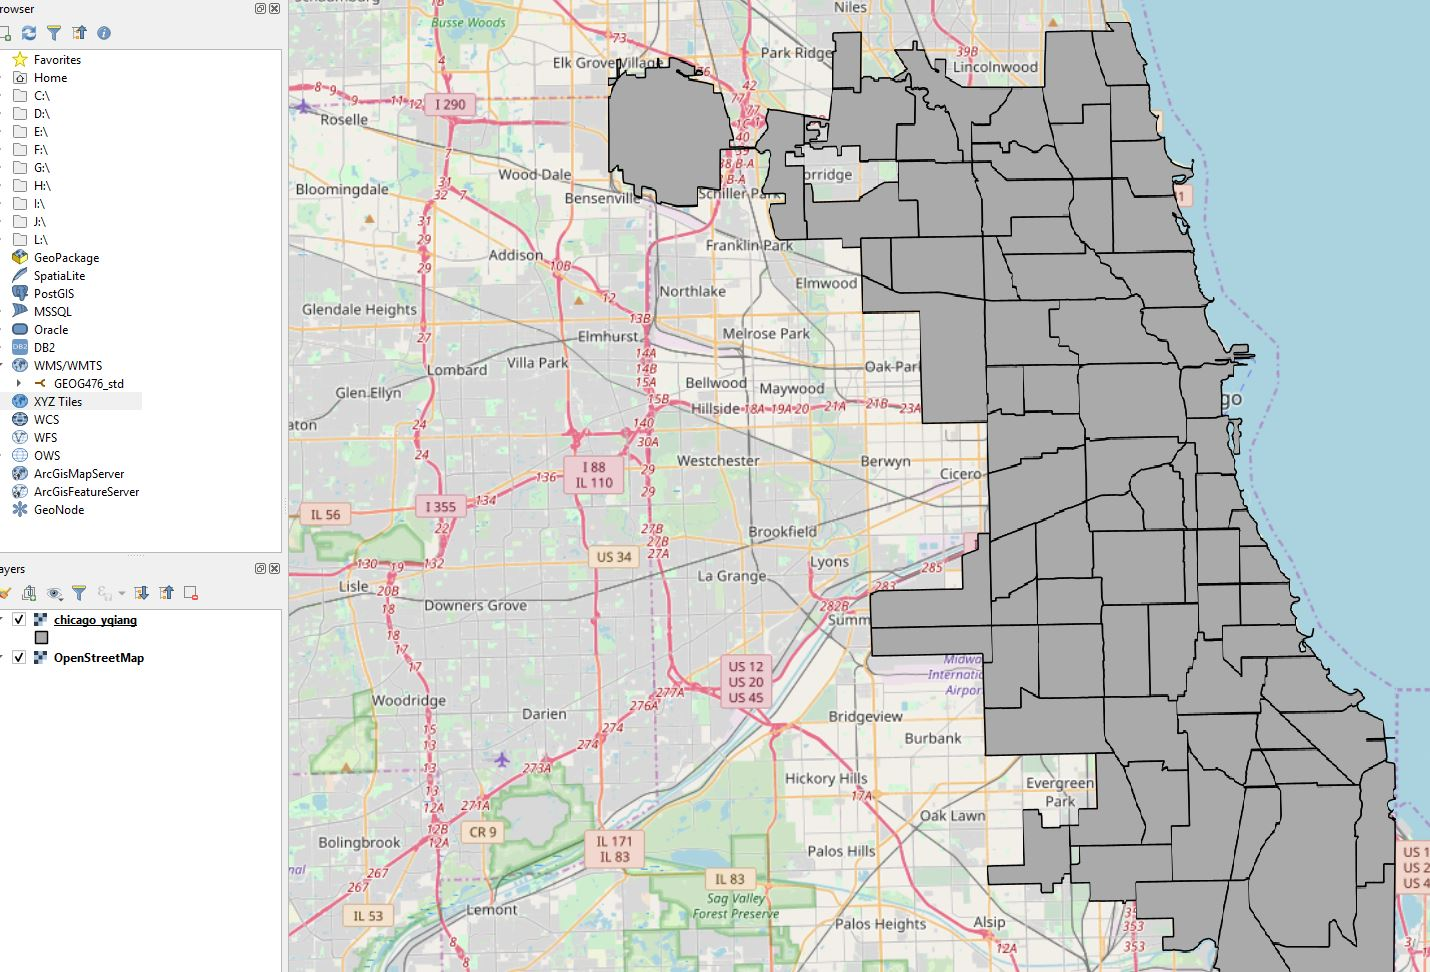
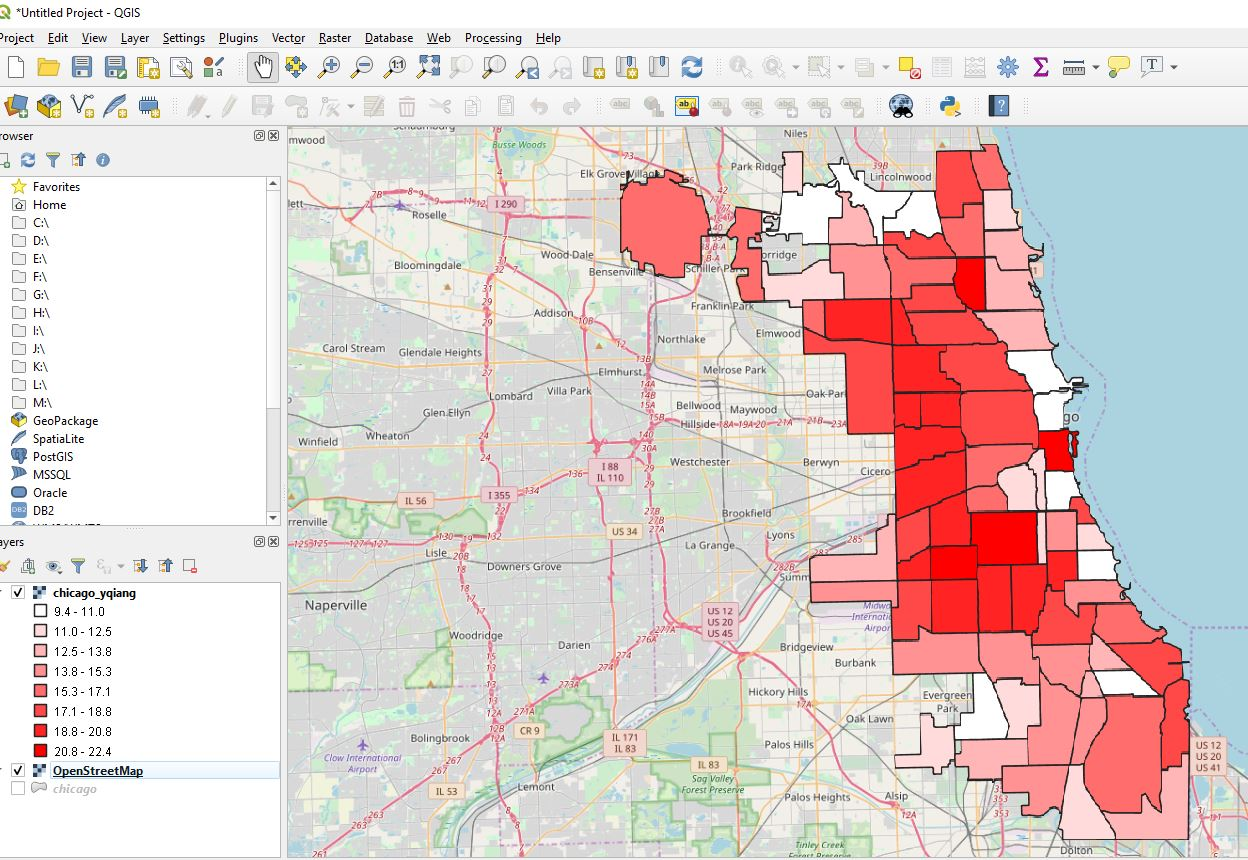
11/8 before class

diff --git a/lecture/lec11_web_map_service.md b/lecture/lec11_web_map_service.md
@@ -1,0 +1,327 @@
+
+# Web Map Service
+
+##### Instructor: Yi Qiang <br/>Email: yi.qiang@hawaii.edu <br/>Nov. 8
+
+th, 2019
+---
+This lesson will introduce web map services (WMS) and how to set up web map services in GeoServer.
+
+
+## Learning objectives:
+- Introduction to web map server
+- Basics of GeoServer, a popular open-source WMS platform
+- Develop interactive controls to switch map layers
+- Publish a web map layer using GeoServer
+- Linking  GeoServer layers in a Leaflet map
+
+
+Download the [files for this lab](https://drive.google.com/drive/folders/1TBrLFOz-h_I1lHwbg6QAc88uBHH1iZDQ?usp=sharing) and save them in a known location (i.e., a directory in your Documents). The files include a web map template (index.html) and and a shapefile (chicago.shp).
+
+Before proceeding, verify you have correctly set up your development environment with the necessary components. Refer to [Lec 7: getting started with web mapping](../lec7_start_web_mapping.md) for help.
+
+## 1. Basics of Web Map Services
+There are various ways to get geospatial data to show up in someone's web browser:
+
+#### Rendering entire dataset
+One way is for the server to send a bunch of text-based geographic data to clients' browsers to draw. This is what you have done in previous lessons in which you loaded GeoJson data stored in your local server to the web maps. This simple approach is easy to implement but has limited ability to render large datasets. All the datasets we used are relatively small in size. The U.S. state dataset is the largest, which only contains 51 polygons (88KB). The entire GeoJson dataset needs to be transmitted to the client's browser to be displayed in the web map. In some web applications, the datasets may include hundreds or thousands of polygons at a finer resolution, which leads to larger data sizes. Transmitting large datasets from server to client browser can lead to slow response of the browser and thus negatively affect user experience. This issue can be worse when the web map has many layers.
+
+<img src="images/fig11-1.jpg" width=600>
+
+The awkward state boundaries in the GeoJson data are mainly for reducing data size.
+
+#### Web Map Service (WMS)
+The OpenGIS® **Web Map Service (WMS)** Interface Standard provides a simple HTTP interface for requesting geo-registered map images from one or more distributed geospatial databases. The WMS receives a request from user detailing the bounding box (or extent) of the map, the layers to include, resolution, the projection to use, and other parameters. It returns a rasterized map image in a common format such as JPG, GIF, or PNG. This technique reduces the data size to be transmitted from server to client and thus increase the response speed of web application. The WMS also supports the ability to specify whether the returned images should be transparent so that layers from multiple servers can be combined or not.
+
+> Web Map Tile Service (WMTS) specification (a subtype of WMS) is an international standard for serving digital maps over the web using cached image tiles. When you create a cached map or image service using a web map server, the service and its tiles are automatically accessible using the WMTS specification. Most raster images (such as leaflet basemaps, Google Map images) are hosted as WMTS.
+
+
+<img src="images/anim29.gif" width=1200>
+
+The basemaps in the [leaflet basemap gallery](https://leaflet-extras.github.io/leaflet-providers/preview/) are essentially WMS.
+
+<img src="images/fig11-2.jpg" width=900>
+
+
+### Software for hosting WMS
+There are many software options for hosting Dynamic WMS in a web server.
+- [GeoServer](http://geoserver.org/) - is an open source software server written in Java that allows users to share and edit geospatial data.
+- [ArcGIS for server](https://enterprise.arcgis.com/en/server/latest/get-started/windows/what-is-arcgis-for-server-.htm) - A back-end server software component of ArcGIS Enterprise (require license purchase).
+- [Map Server](http://mapserver.org/) - A Open-source web map server software. Sometimes called the "Minnesota Map Server," this was developed at the University of Minnesota in the 1990s.
+- [QGIS Server](https://docs.qgis.org/2.14/en/docs/user_manual/working_with_ogc/ogc_server_support.html) - An extension for QGIS that allows you to publish your QGIS map directly through WMS.
+- WMS hosting services. Some web services (e.g. [ArcGIS online](https://www.arcgis.com/index.html) and [MapBox](https://www.mapbox.com/)) allow users to upload geospatial data and publish the data as WMS layers. The payment for such services are monthly billing or a pay-as-you go mode.
+
+We will use [GeoServer](http://geoserver.org/), which is an open-source solution, for this lesson.
+
+## 2. Basics of GeoServer
+GeoServer is an open-source software for hosting WMS. Designed for interoperability, it publishes data from any major spatial data source using open standards. Being a community-driven project, GeoServer is developed, tested, and supported by a diverse group of individuals and organizations from around the world.
+
+> GeoServer implements standard open web protocols established by the Open Geospatial Consortium (OGC), a standards organization. GeoServer is the reference implementation of the OGC Web Feature Service (WFS) and Web Coverage Service (WCS) standards, and contains as well a high performance certified compliant Web Map Service (WMS). It is through these protocols that GeoServer can serve data and maps in an efficient and powerful way.
+
+#### Supported Data Format
+GeoServer can read from many different data formats, from files on the local disk to external databases. Through the medium of web protocols, GeoServer acts as an abstraction layer, allowing a standard method of serving geospatial data regardless of the source data type.
+
+The following is a list of the most common data formats supported by GeoServer. This list is by no means exhaustive.
+- Vector
+  - Shapefile
+  - GeoPackage - QGIS layer with styling
+  - PostGIS - spatial database
+  - Web Feature Server (NG) - Provides access to the Features published a Web Feature Service
+- Raster
+  - ArcGrid - ARC/INFO ASCII GRID Coverage Format
+  - GeoPackage (mosaic) - GeoPackage mosaic plugin
+  - GeoTIFF - Tagged Image File Format with Geographic information
+  - ImageMosaic - Image mosaicking plugin
+  - WorldImage - A raster file accompanied by a spatial data file
+
+## 3. Data Management in GeoServer
+In GeoServer, data are stored in different levels of containers in a hierarchical structure.
+### [Workspace](https://docs.geoserver.org/latest/en/user/data/webadmin/workspaces.html)
+A workspace (sometimes referred to as a namespace) is the name for a notional container for grouping similar data together. It is designed to be a separate, isolated space relating to a certain project. Using workspaces, it is possible to use layers with identical names without conflicts.
+
+**Stores** and **layers** must be contained in a specific workspace. **Styles** may optionally be associated with a workspace, but can also be global.
+
+
+### [Store](https://docs.geoserver.org/latest/en/user/data/webadmin/stores.html)
+A **store** is the name for a container of geographic data. A store can contain many layers, such as the case of a database that contains many tables. A store can also have a single layer, such as in the case of a shapefile or GeoTIFF. A store must contain at least one layer.
+
+GeoServer saves the connection parameters to each store (the path to the shapefile, credentials to connect to the database). Each store must also be associated with one (and only one) workspace. A store can be considered as a sub-folder of the workspace it is associated with.
+
+A store is sometimes referred to as a “datastore” in the context of vector data, or “coverage store” in the context of raster (coverage) data.
+
+### [Layer](https://docs.geoserver.org/latest/en/user/data/webadmin/layers.html)
+The term “layer” refers to a raster or vector dataset that represents a collection of geographic features. Vector layers are analogous to “featureTypes” and raster layers are analogous to “coverages”. All layers have a source of data, known as a Store. The layer is associated with the Workspace in which the Store is defined.
+
+### [Layer Groups](https://docs.geoserver.org/latest/en/user/data/webadmin/layergroups.html)
+A layer group is a container in which layers and other layer groups can be organized in a hierarchical structure. A layer group can be referred to by a single name in WMS requests. This allows simpler requests, as one layer can be specified instead of multiple individual layers. A layer group also provides a consistent, fixed ordering of the layers it contains, and can specify alternate (non-default) styles for layers.
+
+You can add layers in different stores and workspaces in a layer group.
+
+The following graphic shows the various relationships between workspaces, stores, layers, and layer groups.
+
+<img src="images/fig51.png" width="500">
+
+### [Style](https://docs.geoserver.org/stable/en/user/styling/webadmin/index.html)
+A style is a visualization specification for rendering geographic data. A style can contain rules for color, shape, and size, along with logic for styling certain features or points in certain ways based on attributes or scale level. Every layer must be associated with at least one style. The default style will be used if no style is specified. In GeoServer, the style information is stored in SLD files, which can be associated (applied) to the layers.
+
+## 3. Publishing Layers in GeoServer
+
+### GeoServer Installation and Configuration
+GeoServer is open-source software, which you can freely download and install in your own computer. You may refer to [the GeoServer tutorial](https://docs.geoserver.org/stable/en/user/installation/win_installer.html) for the installation and configuration. However, since your computer is not a web server (which needs a static IP and domain name), the WMS deployed in your computer is not accessible from the internet (only accessible from http://localhost). In this lesson, you will learn to publish geospatial data in GeoServer WMS which is set up in a web server (accessible from the internet).
+
+### Step 1: Administration Interface
+
+Please go to http://spatial.manoa.hawaii.edu:8080/geoserver/ in your browser. You'll see the Administration interface of GeoServer.
+
+Please log in to your account using the username and password assigned in class.
+<img src="images/fig52.jpg" width="800">
+
+When logged in successfully, you can see a number of items in the **Data** panel on the left. These are where you create, edit and manage different data containers in the server.
+<img src="images/fig53.jpg" width="800">
+
+First, go to **Layer Preview**. You can see a list of published layers in the server.  These published layers are accessible and can be used in web maps hosted in any servers.
+
+Click **Open Layers** to preview the layer of 'USA Population'.
+<img src="images/fig54.jpg" width="800">
+
+
+A map view pops up and shows the boundaries of the states. You can click on a state to view its attributes.
+
+<img src="images/fig55.jpg" width="700">
+
+### Step 2: Publish a simple data layer
+At this step, we are going to publish a polygon layer in GeoServer.
+For management reasons, you share the same workspace with other students for layer publishing. You will create your own **store** to store your data.
+
+
+Click **Stores** in the interface and click **Add new Store**. Click **Directory of spatial files (shapefile)**.
+
+<img src="images/fig56.jpg" width="500">
+
+- Name the store using your name initial + last name.
+- Write a short description of the store (optional).
+- Click **Browse...** and navigate to `D:/http_website/spatial_manoa_hawaii_edu/webmapping/YOURUSERNAME/`
+- Click **Save** to create the store.
+
+<img src="images/anim28.gif" width="800">
+
+Now, the store points to a directory in your FTP site in the server.
+
+Next, log in ftp://128.171.126.21/ in Filezilla client or or Windows File Explorer. Enter your username, which is your first name initial + last name (e.g. John Smith -> jsmith), and password (your student ID).
+
+<img src="images/fig11-4.jpg" width="800"><br>
+
+Copy and paste the shapefile (chicago.shp) to the server. Note, you need to upload all the component files of the shapefile.
+
+<img src="images/fig60.jpg" width="800"><br>
+
+Click **Layers** in the GeoServer Admin interface and create a new layer from your data store. I'll see the uploaded shapefile showing in the interface.
+Click **Publish**.
+
+<img src="images/anim30.gif" width="1000"><br>
+
+Note: you may see layers created by your classmates in the **Layers** interface. **Please be careful and DO NOT delete others' layers**
+
+Name the layer in the format "chicago_yourname" so I can tell who created the layer.
+
+<img src="images/fig66.jpg" width="500">
+
+
+Computer Native Bounding Box and Lat/Lon Bounding Box.
+
+<img src="images/fig63.jpg" width="400"><br>
+
+Click **Save** on the bottom of the page to publish the data layer. Then, you can find the layer in the **Layers** page.
+
+<img src="images/fig11-5.jpg" width="800"><br>
+
+
+Click **Layer Preview** and then click **** to preview the layer. You can preview the published layer in **Layer Preview**.
+<img src="images/anim31.gif" width="800"><br>
+
+This is the URL of the WMS, which you can use to link the layer to a web map.
+
+<img src="images/fig64.jpg" width="800"><br>
+
+Now, you have published a data layer as a WMS in GeoServer. The WMS can be accessed in web maps and GIS software using the URL of the WMS.
+
+### Step 3: Creating a style
+Now, the chicago layer you published only shows gray color. You can create a **style** file to define the color, boundary line, and transparency. In GeoServer, the style file (**.SLD**) and the layer are two objects that are associated with each other. You can use **QGIS** to define a style, and then upload into GeoServer and associate with the layer.
+
+First, add chicago.shp into QGIS.
+- Open QGIS desktop.
+- Click the **Layer** menu -> **Add Layer** -> **Add Vector Layer..**
+- Navigate to the folder that contains **chicago.shp**, click to add chicago.shp into QGIS.
+<img src="images/anim33.gif" width="1000"><br>
+
+Then, define symbology of the chicago layer to assign graduated colors represent an attribute (BirthRate) of the polygon layer.
+- Right click on the chicago layer in the **Layers** panel.
+- Select **Graduated** on the top of the **Symbology** window.
+- Select **BirthRate** as the attribute.
+- Increase **Classes** into 8, choose **Natural Breaks (Jenks)** mode for color classification.
+- Click **Classify** to apply the color classification.
+- Keep the **Symbology** window open.
+
+<img src="images/anim34.gif" width="1000"><br>
+
+Now, the graduated color scheme (white -> red) is applied to the polygons. Next, we will save the symbology into a SLD file, which will be uploaded to GeoServer.
+- Click the **Style** menu on the bottom of the **Symbology** window.
+- Click **Save Style**.
+- Save style **As SLD style file**
+- Name the style file **chicago_style_yourname.sld** in the same folder of chicago.shp (not necessary, only for easy management).
+
+<img src="images/anim35.gif" width="1000"><br>
+
+Now, the symbology (graduated colors) has been saved in a SLD style file in your computer. Next, we are going to upload the style file into GeoServer and associate it with the published chicago layer.
+
+- Go to the [GeoServer interface](http://spatial.manoa.hawaii.edu:8080/geoserver), log in if needed.
+- Click **Styles** in the left panel.
+- Click **Add a new style**.
+- Name the style **chicago_style_yourname**, and choose **student** as the workspace.
+- Click **Choose File**, navigate to your data folder, click to choose the SLD file you just saved in QGIS. Click **Upload...** to upload the SLD file into GeoServer.
+- Click **Validate**, it should show 'no error' if the file is successfully uploaded. Click **Apply**.
+- Go to the **Publishing** tab (on the top). Check both **Default** and **Associated** after the **chicago_yourname** layer. Click **Apply** and then **Submit**.
+Now, the SLD style is applied in the chicago layer. You can check if the new colors in **Layer Preview**.
+<img src="images/anim36.gif" width="1000"><br>
+
+
+### Step 4: Viewing the WMS in QGIS
+Other than viewing the WMS layer in the GeoServer Layer Preview, you can use client tools to view layers in a WMS. Now let's take a few minutes to see how QGIS works with WMS layers. This is important if you want to bring web services into your desktop maps as backgrounds or thematic layers.
+
+- Launch QGIS, start a new project. Click **Layer -> Add Layer -> Add WMS/WMTS Layer...**
+- Click **New** to add a WMS/WMTS connection. Name it "chicago_wms". Copy and paste `http://spatial.manoa.hawaii.edu:8080/geoserver/wms` to the URL box.
+- Click Choose the newly created connection and click **Connect**. Then, you can see all WMS layers published in GeoServer in the table, including the Chicago layer you just published.
+
+- Click to choose the **chicago_yourname** layer, click **Add** to add it to QGIS.
+
+<img src="images/anim37.gif" width="1000"><br>
+
+Unlike the previous chicago layer which was loaded from your computer, the chicago_wms layer is rendered from the chicago layer in the WMS in a web server. In QGIS and web map, you can render layers from distributed sources (e.g. different WMS) to make maps.
+
+Additionally, you can pull a basemap from other WMS to integrate with the chicago layer QGIS.
+
+- In QGIS, click **Plugins > Manage and Install Plugins**. Search **"OSM"** and install **OpenLayers Plugins**.
+<img src="images/fig70.jpg" width="600"><br>
+
+- Then, click **Web -> OpenLayers plugin -> OpenStreetMap -> OpenStreetMap** to add the OSM basemap into QGIS.
+<img src="images/fig71.jpg" width="600"><br>
+
+- In the **Layer** panel, place the OMS basemap under the Chicago layer. You'll see the two layers overlaid in the map view.
+<img src="images/fig72.jpg" width="600">
+
+In QGIS, both layers are pulled from WMS hosted in remote servers. In a web map, you can render and display layers from WMS hosted in different servers. Integrate geospatial data published in distributed servers is called **map mashup**, which is an important advantage of WMS compared with desktop GIS. There is a set of international standard of WMS, which facilitate map mashup with WMS layers from different sources.
+
+### Step 5: Adding the WMS layer in a Leaflet maps
+Launch a Python HTTP server, pointing to the folder of the downloaded "index.html" file. Open Chrome, log on to "index.html" using LocalHost.
+
+Add the following code in the `<script>` tabs. Replace "YOUR_LAYER_NAME" with the name of the layer you published.
+
+```
+var chicagoLayer = L.tileLayer.wms("http://spatial.manoa.hawaii.edu:8080/geoserver/wms", {
+  layers: 'student:YOUR_LAYER_NAME',
+  format: 'image/png',
+  transparent: true,
+  version: '1.1.0',
+  attribution: "myattribution"
+}).addTo(map);
+```
+
+Refresh Chrome, you can see the polygons from the WMS showing in the map:
+<img src="images/fig77.jpg" width="600">
+
+Unlike the previous maps you created, which use GeoJson data stored in the local server, this map lodas a WMS layer published in a web map server.
+
+---
+## Assignment
+Download the data from [here](https://drive.google.com/file/d/1_HlKQWpGjhrZW2NlYlioOSks8B1gaP4f/view?usp=sharing) and extract the shapefile (floodzone.shp) into a folder in your computer. The shapefile contains counties where flood maps are available.
+Follow the same procedure in this lesson, do the following:
+1. Upload and publish three shapefiles (floodzone.shp, cities.shp, and rivers.shp) as a WMS layer in GeoServer, name the layer as fz_YOURNAME, cities_YOURNAME, and rivers_YOURNAME.
+2. Using QGIS to create a style (SDL file) to assign graduated colors to the polygons according to the attribute **r_pop_fz**, which is ratio of population in 100-year-flood zone. Name the style (fz_style_YOURNAME)
+3. Upload the style file into GeoServer and apply the style to the published flood zone layer (fz_YOURNAME).
+4. Create a simple web map with the following layers:
+  1. a city layer showing cities as points
+  2. a river layer showing the major rivers in US as polylines
+  3. a choropleth map "the ratio of population in flood zone per county"
+  4. a basemap.
+
+Please modify and add the following code to create a toggle control for Layer 1-3.
+
+```javascript
+	var map = L.map('map', {
+		center: [-17, -67],
+		zoom: 3
+	});
+
+	var layers = {
+		'Ratio of population in flood zone': L.tileLayer.wms('http://spatial.manoa.hawaii.edu:8080/geoserver/wms', {
+			layers: 'student:fz_YOURNAME'
+		}),
+
+		'Cities': L.tileLayer.wms('http://spatial.manoa.hawaii.edu:8080/geoserver/wms', {
+			layers: 'student:cities_YOURNAME'
+		}),
+
+    'Rivers': L.tileLayer.wms('http://spatial.manoa.hawaii.edu:8080/geoserver/wms', {
+      layers: 'student:rivers_YOURNAME'
+    }),
+
+    'All layers': L.tileLayer.wms('https://demo.boundlessgeo.com/geoserver/ows?', {
+			layers: 'student:fz_YOURNAME,student:cities_YOURNAME,student:rivers_YOURNAME'
+		})
+  };
+
+	L.control.layers(layers, {}, {collapsed: false}).addTo(map);
+
+	layers.Countries.addTo(map);
+
+```
+
+
+<img src ="images/fig11-6.jpg" width =200><br>
+
+Finally, upload the web map (index.html) into your UH web server.
+
+#### Submission
+Submit the URL (e.g. www2.hawaii.edu/~yourusername...) to the web map through Laulima by **Nov 22th (Friday), 11:55pm**.
+
+**Important**: as you are sharing the same account in GeoServer, please name your layers and styles with your username (e.g. fz_yourname and fz_style_yourname) to distinguish them from others. Please be careful not to delete others' files. If you did in accident, please let me or other know.
